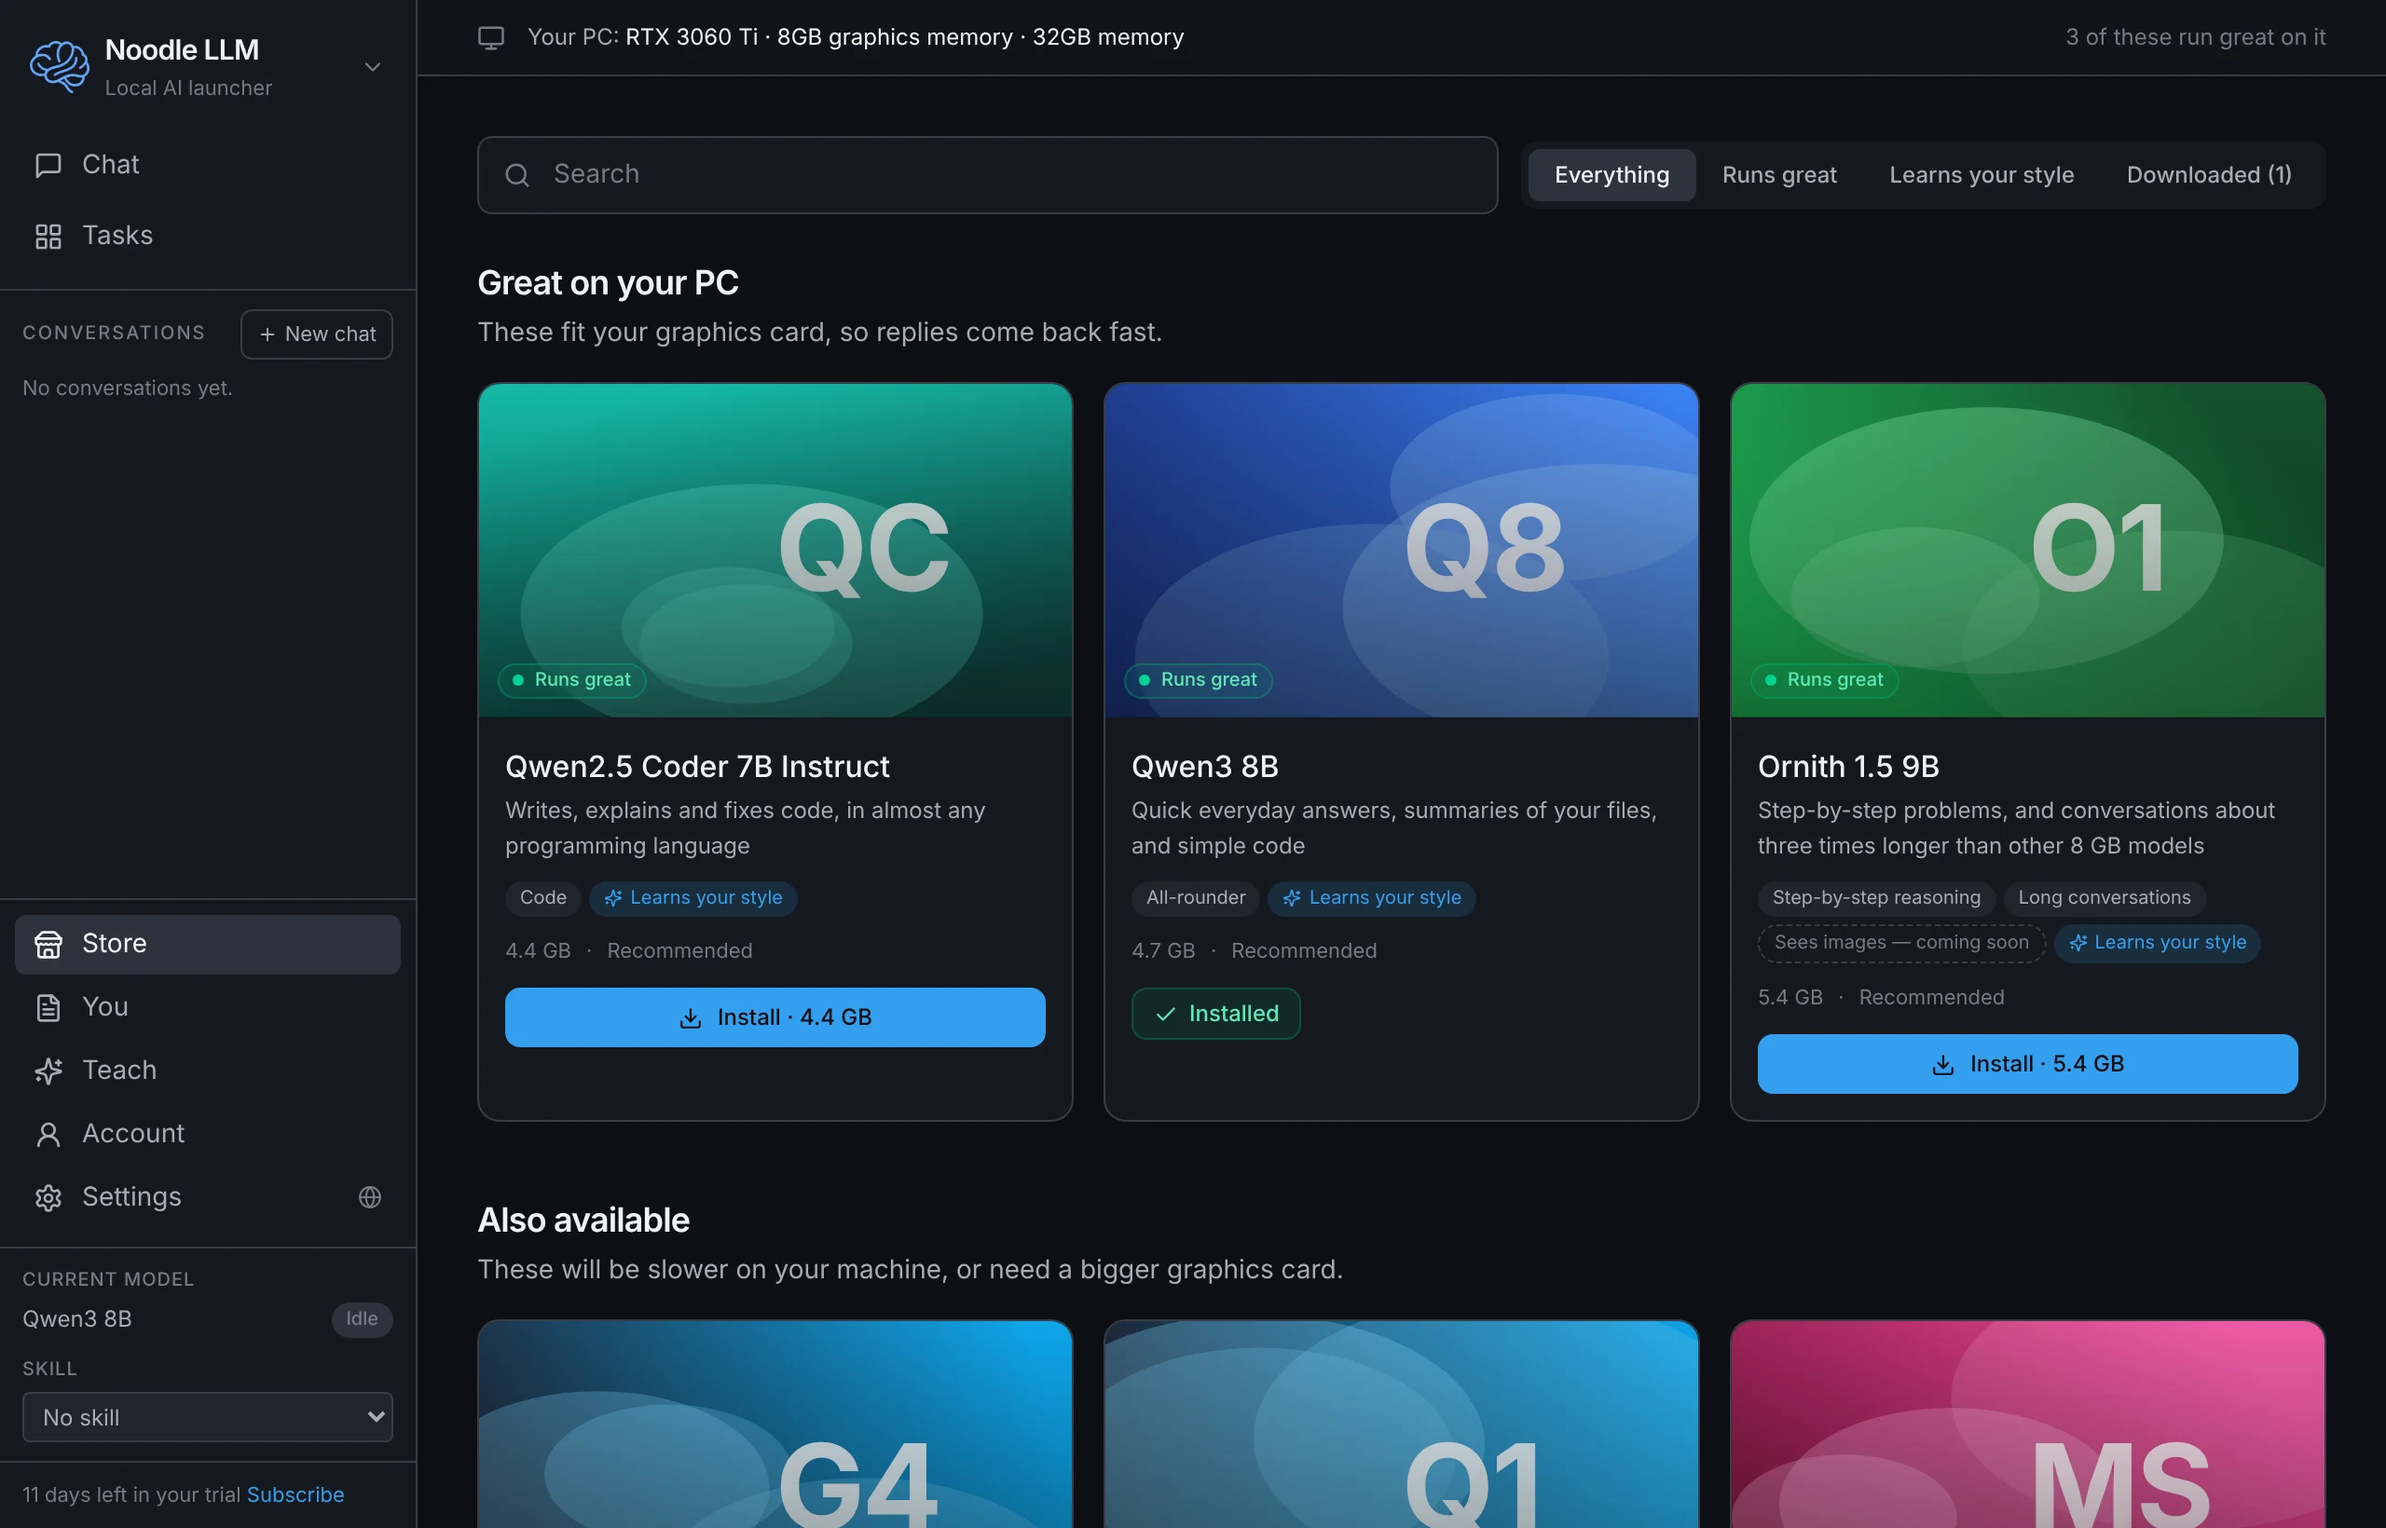
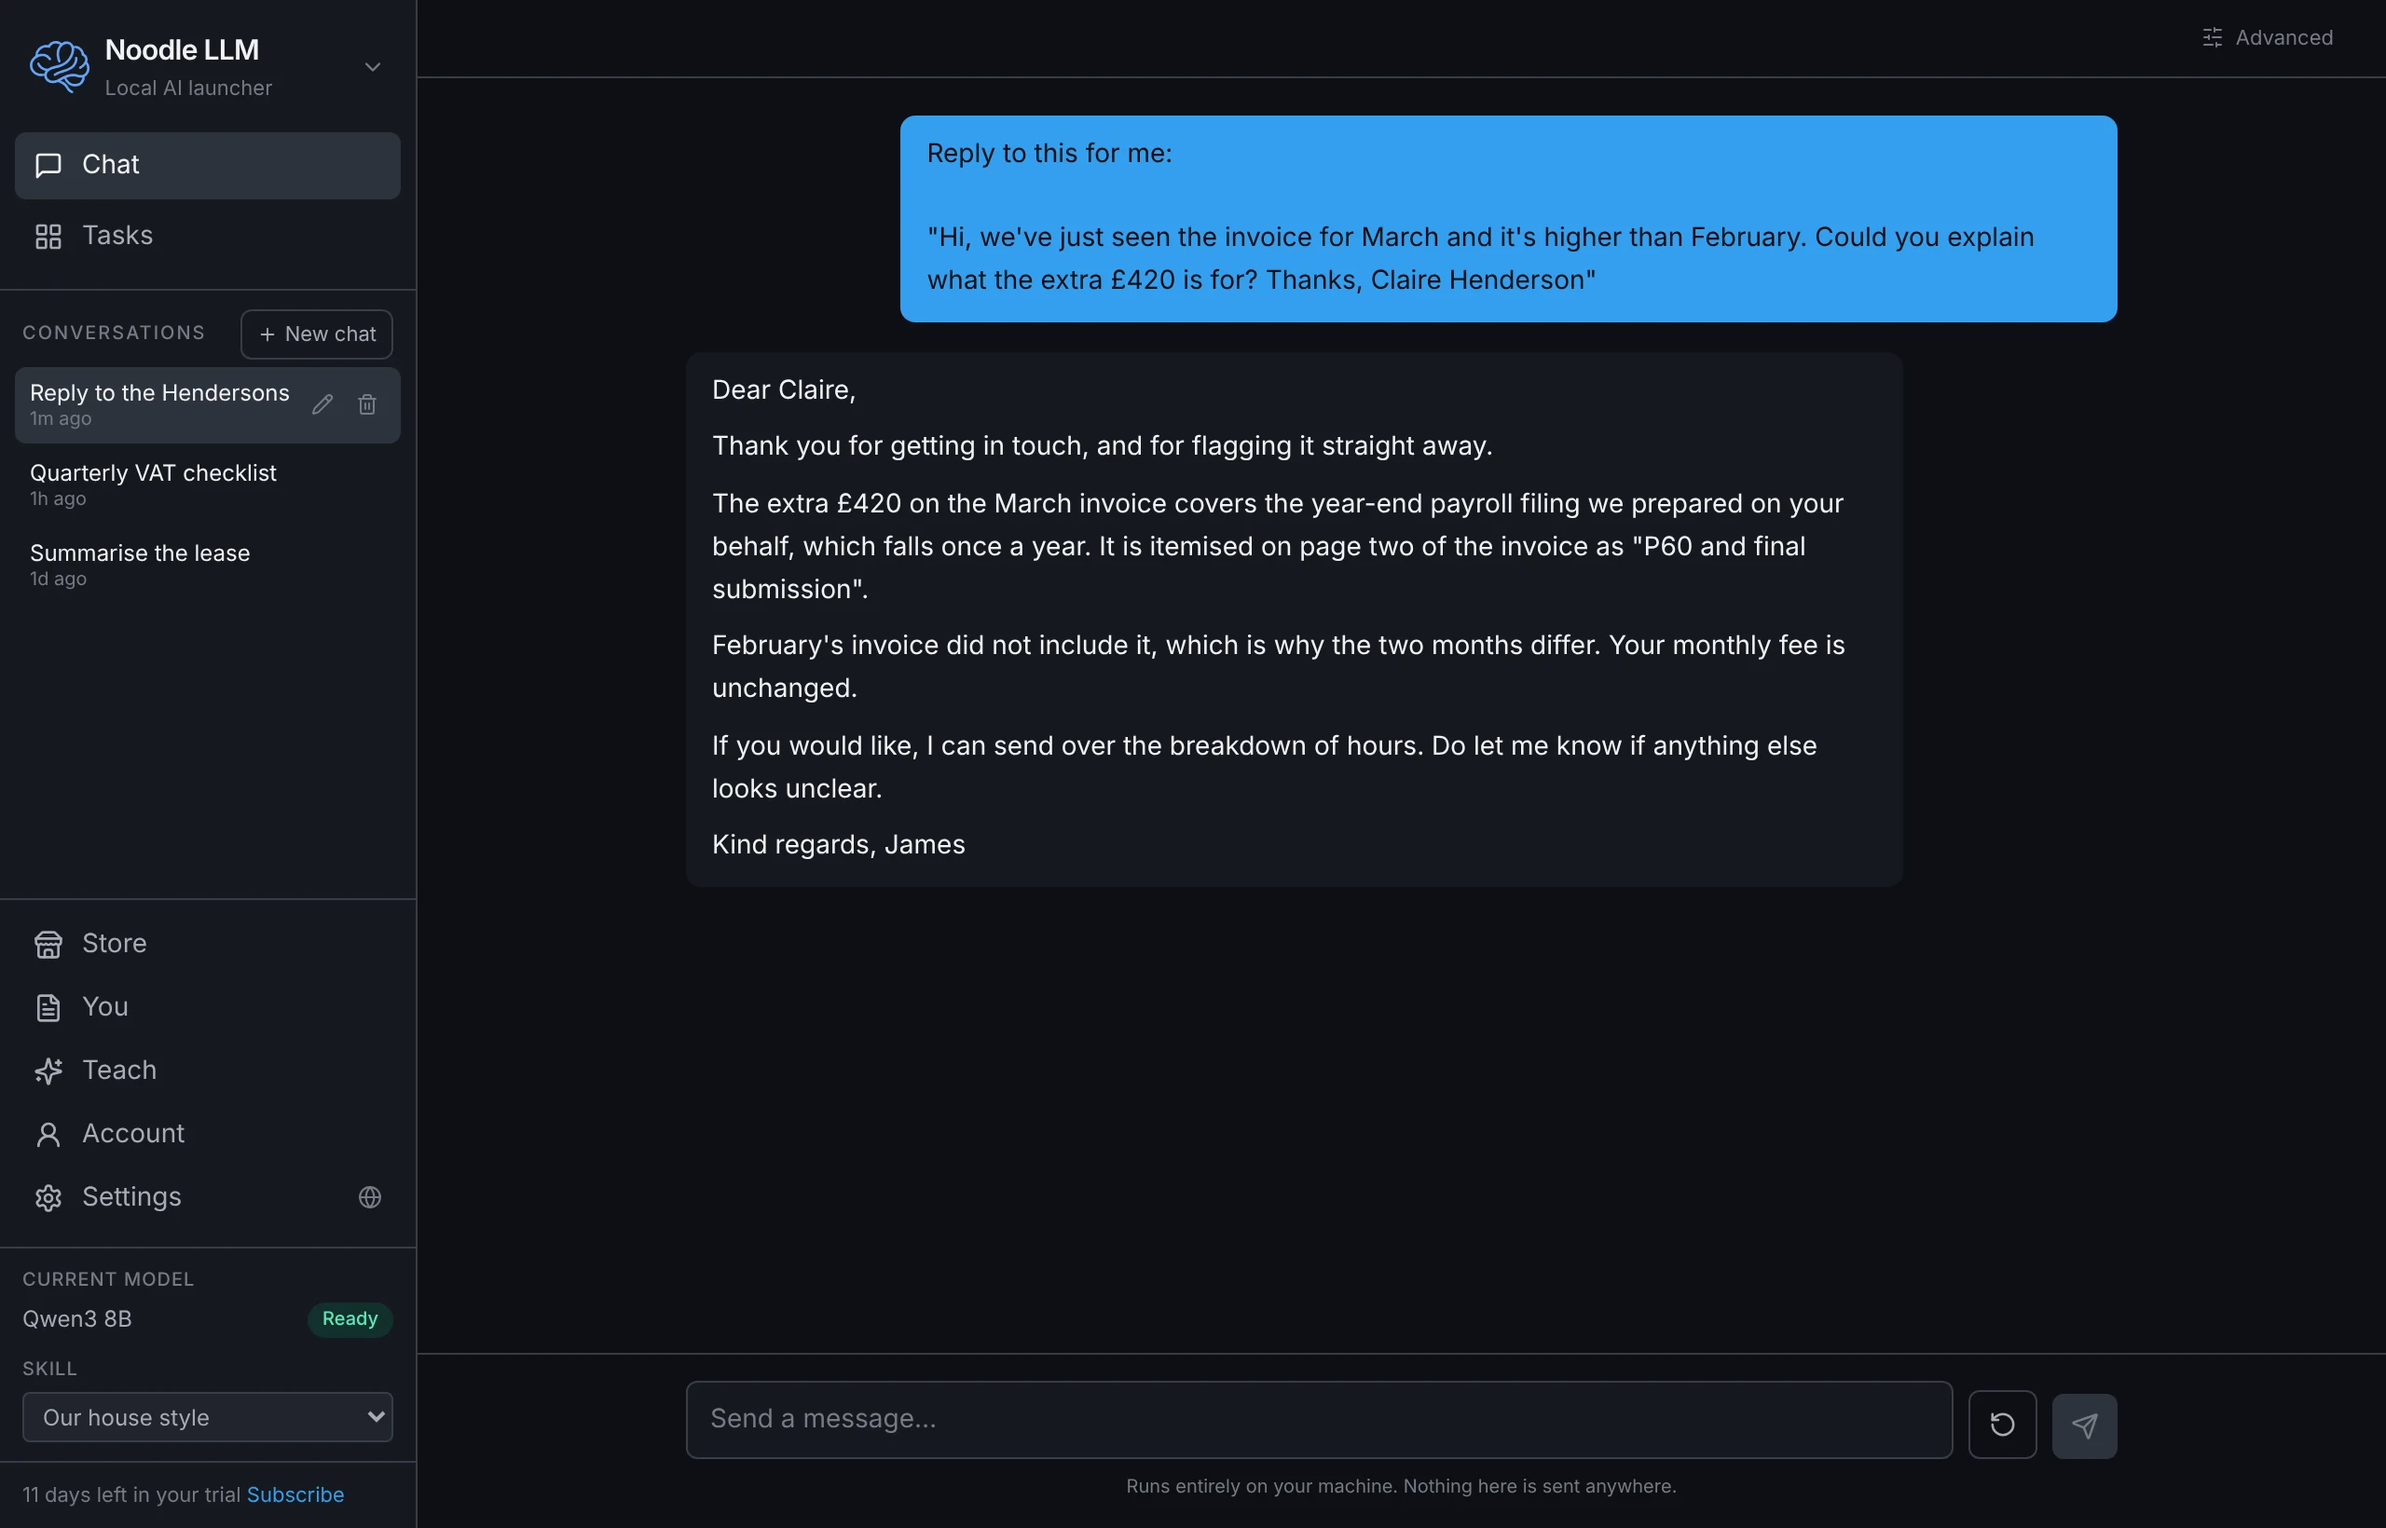
Home: show a chat with a skill on instead of the store
Claude-Session: https://claude.ai/code/session_015rLYX8kNTSeHPmApGtiRkj

diff --git a/lib/strings/ja.ts b/lib/strings/ja.ts
@@ -62,9 +62,9 @@ export const ja: Strings = {
       },
     ],
 
-    shotTitle: "あなたのパソコンで何が動くか、すぐわかる",
-    shotBody: "ストアを開くと、どのモデルもあなたのパソコンに合わせてチェック済みです。快適に動くもの、遅いもの、入らないものが一目でわかります。選んでワンクリックでインストールすれば、すぐに使えます。",
-    shotAlt: (app) => `${app} のストア。各モデルにこのパソコンでの動き具合が表示されている`,
+    shotTitle: "あなたらしい文章で書く",
+    shotBody: "モデルを選び、教えたスキル（たとえば事務所の文体）をオンにすると、あなたが書くような返事が返ってきます。モデルもスキルも、すべての言葉もあなたのパソコンの中にとどまります。",
+    shotAlt: (app) => `${app} のチャットで顧客メールへの返信を下書きしている画面。スキル「Our house style」がオン`,
 
     individualTitle: "あなたのためにできること",
     practiceLine:

diff --git a/lib/strings/de.ts b/lib/strings/de.ts
@@ -63,9 +63,9 @@ export const de: Strings = {
       },
     ],
 
-    shotTitle: "Es sagt dir, was dein PC schafft",
-    shotBody: "Öffne den Store, und jedes Modell ist schon mit deinem Computer abgeglichen: was gut läuft, was langsam läuft und was nicht passt. Such dir eins aus, installiere es mit einem Klick und leg los.",
-    shotAlt: (app) => `Der Store von ${app}, jedes Modell markiert danach, wie gut es auf diesem PC läuft`,
+    shotTitle: "Es schreibt so wie du",
+    shotBody: "Wähle ein Modell, schalte eine Fähigkeit ein, die du ihm beigebracht hast, etwa euren Hausstil, und die Antworten klingen so, wie du sie schreiben würdest. Modell, Fähigkeit und jedes Wort bleiben auf deinem Computer.",
+    shotAlt: (app) => `Ein Chat in ${app}, der eine Antwort auf eine Kunden-E-Mail entwirft, mit eingeschalteter Fähigkeit „Our house style“`,
 
     individualTitle: "Was es für dich tut",
     practiceLine:

diff --git a/lib/strings/es.ts b/lib/strings/es.ts
@@ -63,9 +63,9 @@ export const es: Strings = {
       },
     ],
 
-    shotTitle: "Te dice qué puede ejecutar tu PC",
-    shotBody: "Abre la tienda y cada modelo ya está comprobado con tu ordenador: cuáles van muy bien, cuáles van lentos y cuáles no caben. Elige uno, instálalo con un clic y empieza.",
-    shotAlt: (app) => `La tienda de ${app}, con cada modelo marcado según lo bien que funciona en este PC`,
+    shotTitle: "Escribe como tú",
+    shotBody: "Elige un modelo, activa una habilidad que le hayas enseñado, como el estilo de tu despacho, y las respuestas salen como las escribirías tú. El modelo, la habilidad y cada palabra se quedan en tu ordenador.",
+    shotAlt: (app) => `Un chat en ${app} redactando la respuesta a un correo de un cliente, con la habilidad «Our house style» activada`,
 
     individualTitle: "Lo que hace por ti",
     practiceLine:

diff --git a/lib/strings/en.ts b/lib/strings/en.ts
@@ -69,9 +69,9 @@ export const en = {
       },
     ],
 
-    shotTitle: "It tells you what your PC can run",
-    shotBody: "Open the store and every model has already been checked against your computer: which run great, which run slowly and which will not fit. Pick one, install it in one click, and start.",
-    shotAlt: (app: string) => `The ${app} store, with each model marked by how well it runs on this PC`,
+    shotTitle: "It writes the way you do",
+    shotBody: "Pick a model, switch on a skill you taught it, such as your house style, and the replies come back the way you would write them. The model, the skill and every word stay on your computer.",
+    shotAlt: (app: string) => `A chat in ${app} drafting a reply to a client email, with the skill “Our house style” switched on`,
 
     individualTitle: "What it does for you",
     practiceLine:

diff --git a/lib/strings/zh.ts b/lib/strings/zh.ts
@@ -62,9 +62,9 @@ export const zh: Strings = {
       },
     ],
 
-    shotTitle: "它会告诉你，你的电脑能跑什么",
-    shotBody: "打开商店，每个模型都已经按你的电脑检查过：哪些跑得很好，哪些较慢，哪些装不下。挑一个，一键安装，马上开始。",
-    shotAlt: (app) => `${app} 商店，每个模型都标明了在这台电脑上的运行情况`,
+    shotTitle: "它按你的方式写作",
+    shotBody: "选一个模型，打开你教给它的技能，比如你们的行文风格，回复就会像你亲手写的一样。模型、技能和每一个字都留在你的电脑上。",
+    shotAlt: (app) => `${app} 中的对话，正在起草给客户邮件的回复，已打开技能“Our house style”`,
 
     individualTitle: "它能为你做什么",
     practiceLine:

diff --git a/components/sections.tsx b/components/sections.tsx
@@ -246,7 +246,7 @@ export function Shot({ locale }: { locale: Locale }) {
   return (
     <>
     {/* ------------------------------------------------------------ the product */}
-    {/* The store, because "will it run on my PC?" is the question nobody else answers. */}
+    {/* A chat with a skill switched on: the screen people come back to every day. */}
     <section className="mx-auto max-w-5xl px-6 pt-20 pb-20">
       <h2 className="max-w-3xl text-3xl font-semibold leading-tight tracking-tight sm:text-4xl">{t.shotTitle}</h2>
       <p className="mt-4 max-w-2xl text-lg leading-relaxed text-ink-dim">{t.shotBody}</p>
